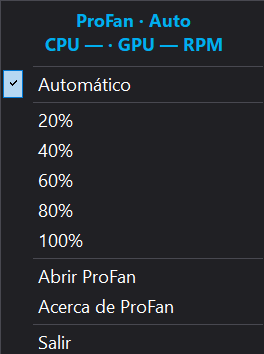
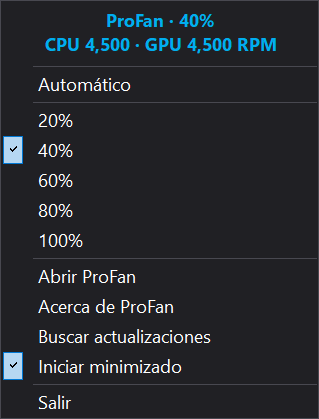
Release ProFan 1.1.14

diff --git a/src/AssemblyInfo.cs b/src/AssemblyInfo.cs
@@ -7,5 +7,5 @@ using System.Runtime.InteropServices;
 [assembly: AssemblyProduct("ProFan")]
 [assembly: AssemblyCopyright("Copyright © 2026 Joshua Ezenwa")]
 [assembly: ComVisible(false)]
-[assembly: AssemblyVersion("1.1.13.0")]
-[assembly: AssemblyFileVersion("1.1.13.0")]
+[assembly: AssemblyVersion("1.1.14.0")]
+[assembly: AssemblyFileVersion("1.1.14.0")]

diff --git a/docs/RELEASING.md b/docs/RELEASING.md
@@ -1,12 +1,13 @@
 # Release process
 
-1. Update versions in `src/AssemblyInfo.cs`, `installer/ProFan.iss`, and `CITATION.cff`; also update the release date in `CITATION.cff`.
+1. Update versions in `src/AssemblyInfo.cs`, `src/ProFan.manifest`, `installer/ProFan.iss`, and `CITATION.cff`; also update the release date in `CITATION.cff`.
 2. Update `CHANGELOG.md` in English and any affected Spanish documentation.
-3. Run `Build.ps1` on Windows 11.
-4. Test Spanish and English installation.
-5. Test 20%, 40%, 60%, 80%, 100%, and Automatic restoration.
-6. Test notification icon animation, tooltip, menu, minimized startup, centered reopening, update checks, `--exit`, upgrade, and uninstall.
-7. Create a version tag such as `v1.0.1`. Sign and verify it when a Git signing key is configured.
-8. Push the tag; GitHub Actions builds and uploads the installer artifact.
-9. Create a GitHub Release and attach `ProFan-Setup.exe` plus its SHA-256 checksum.
-10. Verify the public release is marked **Latest**, both assets download correctly, and the published checksum matches the installer.
+3. Update every affected image in `assets/*-preview.png` whenever controls, buttons, menus, states, or layout change.
+4. Run `Build.ps1` on Windows 11 and confirm its metadata/preview validation passes.
+5. Test Spanish and English installation.
+6. Test 20%, 40%, 60%, 80%, 100%, and Automatic restoration.
+7. Test notification icon animation, tooltip, menu, minimized startup, centered reopening, update checks, `--exit`, upgrade, and uninstall.
+8. Create a version tag such as `v1.0.1`. Sign and verify it when a Git signing key is configured.
+9. Push the tag; GitHub Actions builds and uploads the installer artifact.
+10. Create a GitHub Release and attach `ProFan-Setup.exe` plus its SHA-256 checksum.
+11. Verify the public release is marked **Latest**, both assets download correctly, and the published checksum matches the installer.

diff --git a/README.md b/README.md
@@ -31,7 +31,7 @@ ProFan is a Windows fan-control utility for the **ASUS ProArt PX13 HN7306**. It 
 
 <p align="center">
   <strong>Notification-area quick controls</strong><br>
-  <img src="assets/profan-tray-preview.png" alt="ProFan notification-area menu with mode and RPM status" width="264">
+  <img src="assets/profan-tray-preview.png" alt="ProFan notification-area menu with mode, RPM status, update check, and minimized-startup option" width="264">
 </p>
 
 ## Install

diff --git a/CHANGELOG.md b/CHANGELOG.md
@@ -2,6 +2,14 @@
 
 All notable changes follow the principles of [Keep a Changelog](https://keepachangelog.com/).
 
+## [1.1.14] - 2026-08-12
+
+### Changed
+
+- Updates the notification-area preview to show Start minimized and Check for updates.
+- Aligns the Windows manifest identity with the application release version.
+- Makes the build fail when version metadata or required interface previews are out of sync.
+
 ## [1.1.13] - 2026-08-12
 
 ### Added
